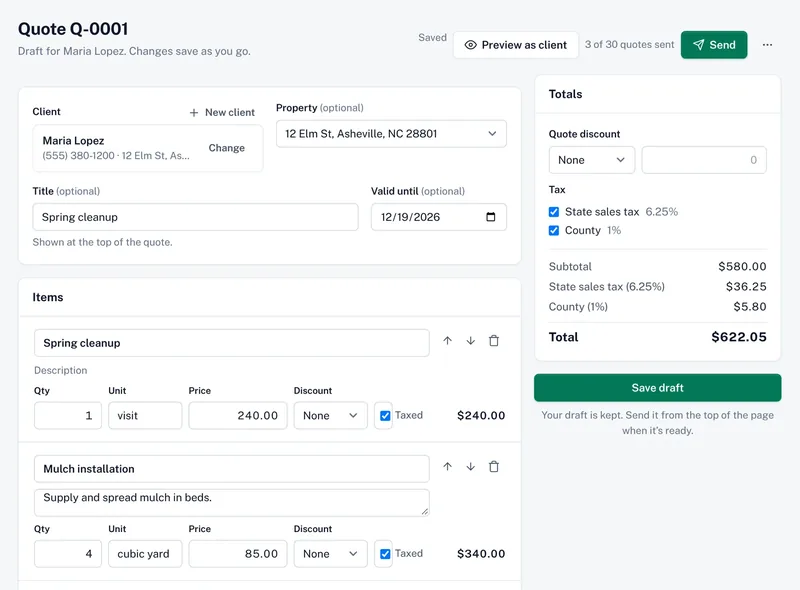
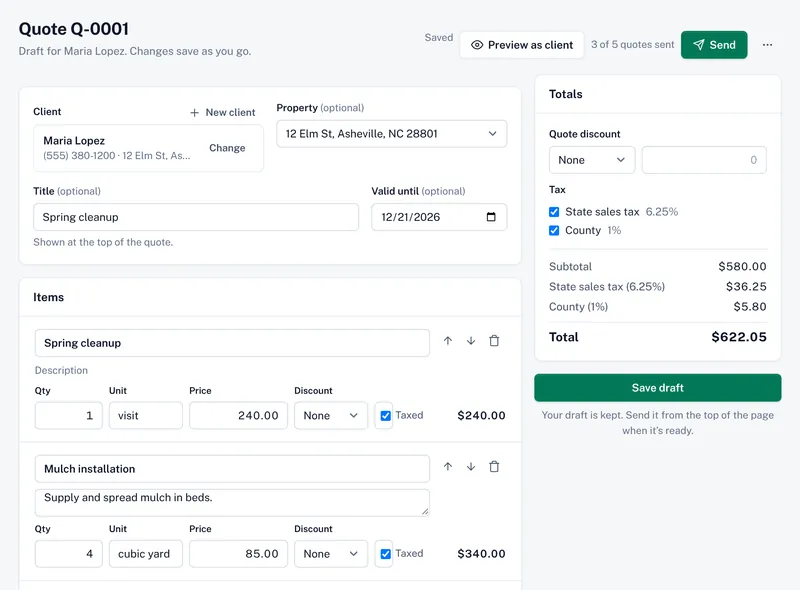
QA #274: marketing and public pages: brand, landmarks, lists, errors (part 2: pages) (#279)
* QA #274 part 2: marketing and public pages: landmarks, lists, contact, pricing, request page

- Home: the hero quote is real text (figure with a caption) with subtotal, 7.25% tax and total;
  "Made for" is a list.
- Client pages: skip link; the logo has its size up front and its alt is the name (not said
  twice); phones are formatted and dialable (phone_number / phone_href / phone_link); the
  request page with requests off still says what to do without contact details.
- Privacy's "What we collect" is a <dl> (markup only, draft version).
- Contact: one title ("Contact · Shadetree"), one "Something else", and required fields marked
  * with a legend (f.required_legend); the "(optional)" space is part of the label text.
- Pricing: "Contact us about choosing a plan"; the Monthly/Yearly switch updates a status region;
  FAQ questions show focus and a minus with green text when open.
- Settings → Branding preview: the Features page's sample quote (Q-0001, $622.05), labelled
  Sample.
- Features: the quote builder screenshot retaken on Free ("3 of 5 quotes sent").

Part of #274

Claude-Session: https://claude.ai/code/session_01STSMyyw2JA3DZHFPa2E6RQ

* QA #274 part 2: review fixes: phone links, skip link first, test name

- phone_href leaves off extensions marked by x, ext, #, comma or semicolon, turns vanity letters
  into keypad digits (1-800-GOT-JUNK => tel:+18004685865), and gives nil below 7 digits;
[…]

diff --git a/app/assets/tailwind/components.css b/app/assets/tailwind/components.css
@@ -63,6 +63,7 @@
   .field + .field { margin-top: 1rem; }
   .label { display: block; margin-bottom: 0.375rem; font-size: 0.8125rem; font-weight: 600; color: var(--color-ink); }
   .label-optional { font-weight: 400; color: var(--color-muted); }
+  .label-required { font-weight: 600; color: var(--color-danger); }
   .help { margin-top: 0.375rem; font-size: 0.8125rem; color: var(--color-muted); }
   .error-text { display: flex; gap: 0.375rem; align-items: center; margin-top: 0.375rem; font-size: 0.8125rem; color: var(--color-danger); }
   .error-text svg { width: 0.875rem; height: 0.875rem; flex: none; }
@@ -540,7 +541,7 @@
 
   .save-status { font-size: 0.8125rem; color: var(--color-muted); white-space: nowrap; }
 
-  .client-logo-image { display: block; flex: none; height: 2.5rem; width: auto; max-width: 12rem; object-fit: contain; object-position: left center; }
+  .client-logo-image { display: block; flex: none; height: 2.5rem; width: auto; min-width: 2.5rem; max-width: 12rem; object-fit: contain; object-position: left center; }
   .client-card { background: #fff; border: 1px solid var(--color-line); border-radius: var(--radius-dialog); box-shadow: var(--shadow-raised); }
   .client-powered { display: flex; justify-content: center; align-items: center; gap: 0.375rem; padding: 1.75rem 0 2.5rem; font-size: 0.75rem; color: var(--color-muted); }
 }
@@ -618,9 +619,14 @@
   .legal-text { color: var(--color-body); font-size: 0.9375rem; line-height: 1.7; }
   .legal-text h2 { margin-top: 2rem; font-size: 1.125rem; font-weight: 700; color: var(--color-ink); }
   .legal-text h3 { margin-top: 1.25rem; font-weight: 600; color: var(--color-ink); }
-  .legal-text p, .legal-text ul, .legal-text table { margin-top: 0.75rem; }
+  .legal-text p, .legal-text ul, .legal-text ol, .legal-text table { margin-top: 0.75rem; }
   .legal-text ul { padding-left: 1.25rem; list-style: disc; }
   .legal-text li + li { margin-top: 0.25rem; }
+  /* Terms and what they mean (Privacy: what we collect), set like the bulleted lists: the term in bold, run in. */
+  .legal-text dl { margin-top: 0.75rem; }
+  .legal-text dl > div + div { margin-top: 0.25rem; }
+  .legal-text dt { display: inline; font-weight: 700; }
+  .legal-text dd { display: inline; }
   .legal-text a { text-decoration: underline; }
   .legal-text table { width: 100%; border-collapse: collapse; font-size: 0.875rem; }
   .legal-text th, .legal-text td { border-bottom: 1px solid var(--color-line); padding: 0.5rem; text-align: left; vertical-align: top; }

diff --git a/app/javascript/controllers/billing_switch_controller.js b/app/javascript/controllers/billing_switch_controller.js
@@ -1,0 +1,13 @@
+import { Controller } from "@hotwired/stimulus"
+
+// Pricing (MKT-01): the Monthly/Yearly switch is radio buttons and CSS, so prices change with no
+// script. This only tells screen readers what changed: the status region gets a summary of the
+// prices now shown (QA #274, WCAG 4.1.3).
+export default class extends Controller {
+  static targets = ["status"]
+  static values = { monthly: String, yearly: String }
+
+  announce(event) {
+    this.statusTarget.textContent = event.target.value === "yearly" ? this.yearlyValue : this.monthlyValue
+  }
+}

diff --git a/test/integration/marketing/accessibility_test.rb b/test/integration/marketing/accessibility_test.rb
@@ -1,7 +1,7 @@
 require "test_helper"
 
 # QA/accessibility audit #274, marketing and public pages: the Shadetree wordmark, landmarks,
-# short links and branded error pages.
+# real lists, short links, branded error pages, the contact form and pricing.
 class MarketingAccessibilityTest < ActionDispatch::IntegrationTest
   PAGES = %w[/ /features /pricing /about /contact /legal /terms /privacy /legal/security /users/sign_in /users/sign_up].freeze
 
@@ -9,7 +9,7 @@ class MarketingAccessibilityTest < ActionDispatch::IntegrationTest
     PAGES.each do |path|
       get path
       assert_response :success, path
-      assert_select "body > a[href='#main']:first-of-type", "Skip to content"
+      assert_select "body > a[href='#main']:first-child[class*='focus:z-[200]']", "Skip to content" # first, above the banner
       assert_select "body > header nav[aria-label=Main] a.logo[aria-label='Shadetree home'] .wordmark:not(.wordmark-dark)", 1, path
       assert_select "main#main", 1
       assert_select "body > footer .logo .wordmark.wordmark-dark .wordmark-shade", "Shade"
@@ -22,6 +22,36 @@ class MarketingAccessibilityTest < ActionDispatch::IntegrationTest
       get path
       assert_no_match(/Shade[ -]?Tree|SHADETREE|shade tree/, response.body, path)
     end
+  end
+
+  test "the hero quote is text, with the subtotal, tax and total that add up" do
+    get root_path
+    assert_select "figure figcaption.sr-only"
+    assert_select "figure[aria-hidden]", false
+    assert_select "figure ul li", 4
+    assert_select "figure dl" do
+      assert_select "dt", "Subtotal"
+      assert_select "dd", "$1,243.00"
+      assert_select "dt", "Sales tax (7.25%)"
+      assert_select "dd", "$90.12"
+      assert_select "dd", "$1,333.12"
+    end
+    assert_equal BigDecimal("1333.12"), (BigDecimal("1243.00") * BigDecimal("1.0725")).round(2)
+  end
+
+  test "home page lists are lists" do
+    get root_path
+    assert_select "ul[aria-labelledby=made-for] li", Industry.all.size # every industry but "other", and "other crews"
+    assert_select "dl > div > dt", "Your data is yours"
+  end
+
+  test "legal pages use real lists, and Privacy's terms are a description list" do
+    get terms_path
+    assert_select "article.legal-text ul > li", minimum: 7
+    get privacy_path
+    assert_select "article.legal-text dl > div > dt", "Your account:"
+    assert_select "article.legal-text dl > div > dd", /your name, email, a hashed password/
+    assert_select "article.legal-text li strong", false, "term lists are <dl>, not bold list items"
   end
 
   test "short links go where people expect" do
@@ -51,6 +81,35 @@ class MarketingAccessibilityTest < ActionDispatch::IntegrationTest
       assert_match(/ · Shadetree\z/, page.at_css("title").text)
       assert_no_match(/rails|application owner|logs/i, page.text, code)
     end
+  end
+
+  test "contact: one title, spaced optional labels, one Something else, and marked required fields" do
+    get contact_path
+    assert_select "title", "Contact · Shadetree"
+    assert_select "label[for=contact_message_business_name]", "Business name (optional)"
+    assert_select "#contact_message_industry option[value=other]", 1
+    assert_select "#contact_message_industry option", text: "Other", count: 0
+    assert_select "p", "Fields marked * are required."
+    %w[name email body].each do |field|
+      assert_select "label[for=contact_message_#{field}] .label-required[aria-hidden=true]", "*"
+      assert_select "#contact_message_#{field}[required]"
+    end
+    assert_select "label[for=contact_message_business_name] .label-required", false
+  end
+
+  test "pricing: a descriptive contact link, a status region for the switch, and FAQ cues" do
+    get pricing_path
+    assert_select "a[href=?]", contact_path, text: "Contact us about choosing a plan"
+    assert_select "a", text: "Ask us", count: 0
+    assert_select "[data-controller=billing-switch][data-billing-switch-yearly-value*='billed yearly']"
+    assert_select "p.sr-only[role=status][data-billing-switch-target=status]"
+    assert_select "input[name=billing][data-action='billing-switch#announce']", 2
+    assert_select "details summary.group-open\\:text-canopy", minimum: 4
+  end
+
+  test "the seeded Free plan allows 5 quotes a month, the limit the features screenshot shows" do
+    free = YAML.safe_load_file(Rails.root.join("db/seeds/plans.yml")).fetch("free")
+    assert_equal 5, free.dig("limits", "quotes_sent"), "retake app/assets/images/marketing/builder*.webp (MKT-01) when this changes"
   end
 
   test "staff emails carry the wordmark" do

diff --git a/app/helpers/formatting_helper.rb b/app/helpers/formatting_helper.rb
@@ -30,4 +30,62 @@ module FormattingHelper
 
     tag.time(l(date.to_date, format:), datetime: date.to_date.iso8601)
   end
+
+  # phone_number("2155551212")      => "(215) 555-1212"
+  # phone_number("+1 215-555-1212") => "(215) 555-1212"
+  # North American numbers (10 digits, or 11 with a leading 1) get the usual format; anything
+  # else (international numbers, extensions, vanity numbers) is shown as typed.
+  def phone_number(value)
+    text = value.to_s.strip
+    number = phone_number_part(text)
+    digits = north_american_digits(number) unless number.match?(/[a-z]/i) || number != text
+    digits ? "(#{digits[0, 3]}) #{digits[3, 3]}-#{digits[6, 4]}" : text.presence
+  end
+
+  PHONE_MIN_DIGITS = 7
+  PHONE_MAX_DIGITS = 15 # E.164
+  KEYPAD = %w[ABC DEF GHI JKL MNO PQRS TUV WXYZ].each_with_index.to_h { |letters, index| [ letters, (index + 2).to_s ] }.freeze
+
+  # The tel: href, or nil when there's no single number to dial (fewer than 7 digits, "call us",
+  # or more than 15, like two numbers in one field). Text before the first digit or + is a label
+  # ("Office: ") and is skipped.
+  # Extensions are left off (from x, ext, #, comma or semicolon) and vanity letters become keypad
+  # digits ("1-800-GOT-JUNK" => tel:+18004685865). North American numbers get +1 and ten digits.
+  # Other countries are best effort: a leading + is kept and the rest is digits, but a trunk 0
+  # isn't removed, and ten digits without a + are taken as a US number.
+  def phone_href(value)
+    number = phone_number_part(value.to_s.strip)[/[\d+].*/m].to_s # letters only count after the number starts
+    keyed = number.upcase.gsub(/[A-Z]/) { |letter| KEYPAD.find { |letters, _| letters.include?(letter) }.last }
+    digits = keyed.gsub(/\D/, "")
+    return unless digits.length.between?(PHONE_MIN_DIGITS, PHONE_MAX_DIGITS)
+
+    us = north_american_digits(keyed)
+    us ? "tel:+1#{us}" : "tel:#{keyed.start_with?("+") ? "+" : ""}#{digits}"
+  end
+
+  # A tel: link showing the formatted number (or the block's content); plain text when there's
+  # nothing to dial.
+  def phone_link(value, **attributes, &)
+    return if value.blank?
+
+    href = phone_href(value)
+    return (block_given? ? capture(&) : phone_number(value)) unless href
+
+    block_given? ? link_to(href, **attributes, &) : link_to(phone_number(value), href, **attributes)
+  end
+
+  private
+
+  # The part of a phone number that's dialled: everything before an extension marker.
+  def phone_number_part(text)
+    text.split(/[#,;]|(?:\b|(?<=\d))(?:ext(?:ension)?\.?|x)\s*\d/i, 2).first.to_s.strip
+  end
+
+  def north_american_digits(text)
+    digits = text.gsub(/\D/, "")
+    if text.start_with?("+") then digits[1..] if digits.length == 11 && digits.start_with?("1")
+    elsif digits.length == 11 && digits.start_with?("1") then digits[1..]
+    elsif digits.length == 10 then digits
+    end
+  end
 end

diff --git a/test/helpers/formatting_helper_test.rb b/test/helpers/formatting_helper_test.rb
@@ -19,4 +19,34 @@ class FormattingHelperTest < ActionView::TestCase
     html = Time.use_zone("Pacific/Kiritimati") { local_date(Date.new(2026, 12, 1)) }
     assert_dom_equal '<time datetime="2026-12-01">Dec 1, 2026</time>', html
   end
+
+  test "phone numbers: North American ones formatted and dialled with +1, others as typed (QA #274)" do
+    assert_equal "(215) 555-1212", phone_number("2155551212")
+    assert_equal "(215) 555-1212", phone_number("+1 215.555.1212")
+    assert_equal "tel:+12155551212", phone_href("1 (215) 555-1212")
+    assert_equal "+44 20 7946 0958", phone_number("+44 20 7946 0958")
+    assert_equal "tel:+442079460958", phone_href("+44 20 7946 0958")
+    assert_equal "215-555-1212 x12", phone_number("215-555-1212 x12")
+    assert_equal "tel:+12155551212", phone_href("215-555-1212 x12"), "the extension isn't dialled"
+    assert_dom_equal '<a class="x" href="tel:+12155551212">(215) 555-1212</a>', phone_link("2155551212", class: "x")
+    assert_nil phone_link("")
+    assert_nil phone_number(nil)
+  end
+
+  test "tel: links leave off extensions, dial vanity letters, and skip text with nothing to dial" do
+    { "215.555.1212 #2" => "tel:+12155551212", "215-555-1212, 3" => "tel:+12155551212", "215-555-1212;ext=4" => "tel:+12155551212",
+      "215-555-1212 ext. 12" => "tel:+12155551212", "215 555 1212 extension 7" => "tel:+12155551212",
+      "1-800-GOT-JUNK" => "tel:+18004685865", "1-800-GOT-JUNK x5" => "tel:+18004685865", "1-800-FIX-XBOX" => "tel:+18003499269",
+      "+44 20 7946 0958" => "tel:+442079460958", "020 7946 0958" => "tel:02079460958",
+      "Office: 555 123 4567" => "tel:+15551234567" }.each do |typed, href|
+      assert_equal href, phone_href(typed), typed
+    end
+    assert_equal "1-800-GOT-JUNK", phone_number("1-800-GOT-JUNK"), "vanity numbers are shown as typed"
+    assert_equal "215.555.1212 #2", phone_number("215.555.1212 #2")
+    [ "call us", "12345", "ask Bob", "Fax 555 111 2222 / cell 555 333 4444" ].each do |typed|
+      assert_nil phone_href(typed), typed
+      assert_equal typed, phone_link(typed), "#{typed}: plain text, no link"
+    end
+    assert_equal "Call", phone_link("call us") { "Call" }
+  end
 end

diff --git a/test/integration/client_layout_test.rb b/test/integration/client_layout_test.rb
@@ -1,0 +1,39 @@
+require "test_helper"
+
+# QA #274: client pages (business-branded, no Shadetree navigation) have a skip link, a header
+# with the business's name or logo, main and a footer; phones are formatted and dialable.
+class ClientLayoutTest < ActionDispatch::IntegrationTest
+  setup do
+    @business = businesses(:one)
+    @business.update!(handle: "oakline", request_form_enabled: false, phone: "2155551212", email: "office@oakline.example.com")
+  end
+
+  test "the request page with requests off: landmarks, and how to get in touch" do
+    get public_request_path("oakline")
+    assert_response :success
+    assert_select "body > a[href='#main']:first-child[class*='focus:z-[200]']", "Skip to content" # first, above the banner
+    assert_select "body > header.client-head", /#{Regexp.escape(@business.name)}/
+    assert_select "main#main h1", "Get in touch with #{@business.name}"
+    assert_select "body > footer a", /Powered by\s*Shadetree/
+    assert_select "nav[aria-label=Main]", false, "no Shadetree marketing navigation on client pages"
+    assert_select "header a[href='tel:+12155551212']", "(215) 555-1212"
+    assert_select "main a[href='tel:+12155551212']", /Call \(215\) 555-1212/
+    assert_select "main a[href='mailto:office@oakline.example.com']"
+  end
+
+  test "without a phone or email it still says what's going on" do
+    @business.update!(phone: nil, email: nil)
+    get public_request_path("oakline")
+    assert_select "main p", /Online requests are off right now. Please check back soon./
+  end
+
+  test "a logo gets its size up front, and its alt text is the name (not said twice)" do
+    @business.update!(logo: { io: file_fixture("logo.png").open, filename: "logo.png" })
+    @business.logo.blob.analyze
+    get public_request_path("oakline")
+    image = css_select("header.client-head img.client-logo-image").sole
+    assert_equal @business.name, image["alt"]
+    assert image["width"].to_i.positive? && image["height"].to_i.positive?, "width and height are set"
+    assert_select "header.client-head p", { text: @business.name, count: 0 }
+  end
+end

diff --git a/app/form_builders/shadetree_form_builder.rb b/app/form_builders/shadetree_form_builder.rb
@@ -12,6 +12,10 @@
 #     <%= f.check :reminders, label: "Send reminders", hint: "A day before each visit." %>
 #     <%= f.submit_button "Save client" %>
 #   <% end %>
+#
+# Most forms mark only the optional fields. A public form where most fields are optional can
+# also mark the required ones: `<%= f.required_legend %>` before the fields shows "Fields marked
+# * are required." and puts a * after the label of every required field that follows.
 class ShadetreeFormBuilder < ActionView::Helpers::FormBuilder
   INPUT_TYPES = {
     text: :text_field, email: :email_field, password: :password_field, phone: :telephone_field,
@@ -31,7 +35,16 @@ class ShadetreeFormBuilder < ActionView::Helpers::FormBuilder
     input = build_input(method, as, choices, currency, options)
     @template.render "components/field",
                      id:, input:, help:, errors:, optional:,
+                     required_mark: @mark_required && options[:required].present?,
                      label: label || label_text(method)
+  end
+
+  # The legend for required-field marks; required fields after it get a *.
+  def required_legend
+    @mark_required = true
+    @template.tag.p(class: "help mt-0") do
+      @template.safe_join([ "Fields marked ", @template.tag.span("*", class: "label-required"), " are required." ])
+    end
   end
 
   def check(method, label: nil, hint: nil, **options)

diff --git a/app/models/branding.rb b/app/models/branding.rb
@@ -61,6 +61,17 @@ class Branding
   # A sized logo for :web, :email or :pdf, or nil without one.
   def logo(size = :web) = logo_attachment&.variant(size)
 
+  # The sized logo's width and height, worked out from the original's (once the upload has been
+  # analyzed), so pages can reserve its space before it loads. Nil when they aren't known yet.
+  def logo_dimensions(size = :web)
+    width, height = logo_attachment&.blob&.metadata&.values_at("width", "height")
+    return unless width.to_i.positive? && height.to_i.positive?
+
+    max_width, max_height = LOGO_SIZES.fetch(size).fetch(:resize_to_limit)
+    scale = [ max_width.fdiv(width), max_height.fdiv(height), 1 ].min
+    [ (width * scale).round, (height * scale).round ]
+  end
+
   # The saved logo. A new upload waiting on a save that failed validation isn't shown; the
   # logo already saved is, until the new one is.
   def logo_attachment

diff --git a/test/system/marketing_test.rb b/test/system/marketing_test.rb
@@ -38,6 +38,17 @@ class MarketingTest < ApplicationSystemTestCase
       assert_text "$190 billed yearly"
       assert_no_text "billed monthly"
     end
+    # QA #274: screen readers are told what changed.
+    assert_selector "[role=status]", text: /Showing yearly prices: Starter \$15\.83 a month, \$190 billed yearly/, visible: :all
+    find("label", text: /Monthly/).click
+    assert_selector "[role=status]", text: /Showing monthly prices: Starter \$19 a month/, visible: :all
+  end
+
+  test "the skip link is the first stop, and an open FAQ question shows a minus" do
+    visit pricing_path
+    find("body").send_keys(:tab)
+    assert_equal "Skip to content", evaluate_script("document.activeElement.textContent.trim()")
+    within("details[open]") { assert_selector "summary svg", count: 1 } # the plus is hidden while it's open
   end
 
   test "on a phone the links fold into a menu" do

diff --git a/test/integration/admin/branding_test.rb b/test/integration/admin/branding_test.rb
@@ -23,6 +23,9 @@ class Admin::BrandingTest < ActionDispatch::IntegrationTest
     assert_select "button[data-brand-preview-target=swatch]", Branding::PRESETS.size
     assert_select "input#business_brand_color"
     assert_select "aside[aria-label=Preview] [data-brand-preview-target=preview]", /Approve quote/
+    # QA #274: the same sample quote as the Features page, and labelled a sample.
+    assert_select "aside[aria-label=Preview]", /Quote Q-0001\s*Sample.*Spring cleanup.*\$622\.05/m
+    assert_select "aside[aria-label=Preview] .wordmark.wordmark-small", "Shadetree" # 11px: one colour (owner, 2026-11-21)
   end
 
   test "uploading a logo and picking a color" do

diff --git a/test/integration/marketing/pricing_test.rb b/test/integration/marketing/pricing_test.rb
@@ -83,7 +83,7 @@ class MarketingPricingTest < ActionDispatch::IntegrationTest
     assert_select "#faq ~ div details summary", text: /cancel/
     assert_select "#faq ~ div details summary", text: /take my data/
     assert_no_match(/most popular|card payments|pay online|read-only|move to a paid plan from Settings/i, response.body)
-    assert_select "a[href=?]", contact_path, text: "Ask us"
+    assert_select "a[href=?]", contact_path, text: "Contact us about choosing a plan"
   end
 
   test "says a new business starts with the trial (BIL-05), or on Free when there's none" do

diff --git a/test/integration/client/invoice_page_test.rb b/test/integration/client/invoice_page_test.rb
@@ -44,7 +44,7 @@ class Client::InvoicePageTest < ActionDispatch::IntegrationTest
     assert_select ".quote-doc-terms", /Late fee after 30 days\./
     assert_select "img[alt=yard]"
     assert_select "a[href=?]", client_invoice_pdf_path(@link.token), /Download PDF/
-    assert_select "a[href='tel:555-380-0000']"
+    assert_select "a[href='tel:+15553800000']"
     assert_no_match "Gate code 1234", response.body
     assert_equal "noindex, nofollow", response.headers["X-Robots-Tag"]
     assert_nil @link.expires_at, "an unpaid invoice's link doesn't run out"
